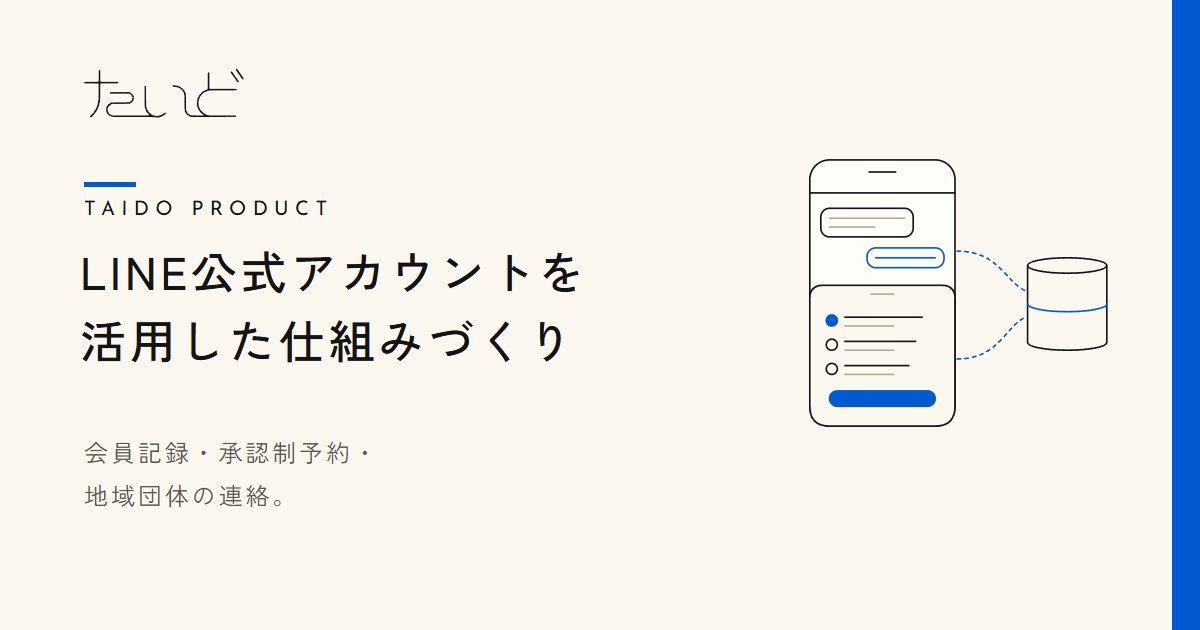
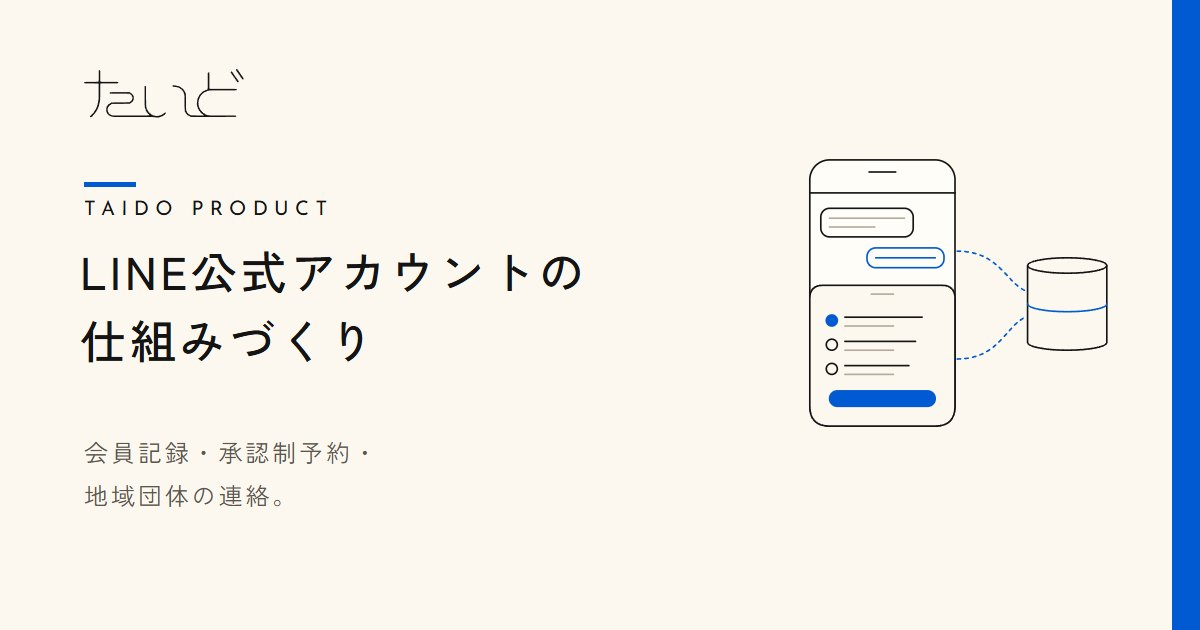
LP の総称を「LINE公式アカウントの仕組みづくり」に統一（たいど AI 会社の道具と同じ名前）。OG 画像も作り直した
Claude-Session: https://claude.ai/code/session_01JTS9wHoswqBZuuv7uGtGUu

Changed region(s): [[0.0617, 0.5127, 0.4933, 0.573], [0.4317, 0.3921, 0.4933, 0.4825]]

diff --git a/line/index.html b/line/index.html
@@ -1,12 +1,12 @@
 <!doctype html>
 <html lang="ja"><head><meta charset="utf-8"><meta name="viewport" content="width=device-width,initial-scale=1">
-<title>LINE公式アカウントを活用した仕組みづくり｜会員記録・承認制予約・地域団体の連絡｜たいど</title>
+<title>LINE公式アカウントの仕組みづくり｜会員記録・承認制予約・地域団体の連絡｜たいど</title>
 <meta name="description" content="LINE公式アカウントを使って、会員一人ひとりが自分の記録を見られる仕組み、お店が確かめてから確定する予約、担当が代わっても続けられる団体の連絡を作ります。あなたの名義で作り、送る数は月の上限で止める設計。山梨県韮崎市・全国オンライン。会員記録 330,000円〜／承認制予約 165,000円〜／地域団体の連絡 100,000円〜、保守（任意）月11,000円〜（税込）。">
 <meta name="theme-color" content="#fcf7ef">
-<meta property="og:title" content="LINE公式アカウントを活用した仕組みづくり｜たいど">
+<meta property="og:title" content="LINE公式アカウントの仕組みづくり｜たいど">
 <meta property="og:description" content="会員記録・承認制予約・地域団体の連絡を、LINE公式アカウントを使って。あなたの名義で作り、送る数は月の上限で止める設計。">
 <meta property="og:type" content="website"><meta property="og:url" content="https://nirareba0.github.io/line/"><meta property="og:site_name" content="たいど"><meta property="og:locale" content="ja_JP">
-<meta property="og:image" content="https://nirareba0.github.io/assets/og-line.jpg?v=2"><meta property="og:image:width" content="1200"><meta property="og:image:height" content="630"><meta property="og:image:alt" content="たいど LINE公式アカウントを活用した仕組みづくり。会員記録・承認制予約・地域団体の連絡">
+<meta property="og:image" content="https://nirareba0.github.io/assets/og-line.jpg?v=3"><meta property="og:image:width" content="1200"><meta property="og:image:height" content="630"><meta property="og:image:alt" content="たいど LINE公式アカウントの仕組みづくり。会員記録・承認制予約・地域団体の連絡">
 <meta name="twitter:card" content="summary_large_image">
 <link rel="canonical" href="https://nirareba0.github.io/line/">
 <link rel="icon" href="../assets/favicon-card.svg" type="image/svg+xml">
@@ -33,7 +33,7 @@
 <div class="band" aria-hidden="true"></div>
 <header class="site-header">
 <a class="brand" href="../"><img src="../assets/taido-logo-line.svg" alt="たいど（トップへ）" width="297" height="100"></a>
-<nav aria-label="LINE公式アカウントを活用した仕組みづくり">
+<nav aria-label="LINE公式アカウントの仕組みづくり">
 <a href="../line/" aria-current="page"><svg class="ic" aria-hidden="true"><use href="#i-line"/></svg><span>一覧</span></a>
 <a href="../line/kiroku/"><svg class="ic" aria-hidden="true"><use href="#i-db"/></svg><span>会員記録</span></a>
 <a href="../line/yoyaku/"><svg class="ic" aria-hidden="true"><use href="#i-cal"/></svg><span>承認制予約</span></a>
@@ -43,10 +43,10 @@
 </header>
 
 <main id="main">
-<nav class="crumbs" aria-label="現在地"><ol><li><a href="../">たいど</a></li><li aria-current="page">LINE公式アカウントを活用した仕組みづくり</li></ol></nav>
+<nav class="crumbs" aria-label="現在地"><ol><li><a href="../">たいど</a></li><li aria-current="page">LINE公式アカウントの仕組みづくり</li></ol></nav>
 <section class="hero lp-hero" id="top" aria-labelledby="hero-title">
 <div class="hero-copy">
-<p class="kicker">たいどのプロダクト ／ LINE公式アカウントを活用した仕組みづくり</p>
+<p class="kicker">たいどのプロダクト ／ LINE公式アカウントの仕組みづくり</p>
 <h1 id="hero-title">会員の記録、予約、<br>団体の連絡を、<br>LINEから。</h1>
 <p class="hero-lead">一人ひとりが自分の記録を見られる仕組みや、お店が確かめてから確定する予約、担当が代わっても続けられる団体の連絡を作ります。まずは、いまの困りごとからお選びください。</p>
 <dl class='hero-price hero-price3'><div><dt>会員記録</dt><dd><span class='n'>330,000</span>円〜</dd></div><div><dt>承認制予約</dt><dd><span class='n'>165,000</span>円〜</dd></div><div><dt>地域団体の連絡</dt><dd><span class='n'>100,000</span>円〜</dd></div><div><dt>保守（任意）</dt><dd>月<span class='n'>11,000</span>円〜</dd></div></dl>
@@ -128,7 +128,7 @@
 <footer class="site-footer">
 <img src="../assets/taido-logo-line.svg" alt="たいど" width="297" height="100">
 <p>たいどを整える ／ 組織づくり・広告企画<br>西村直樹（山梨県韮崎市・全国オンライン）</p>
-<p class="copy"><a href="../line/">LINE公式アカウントを活用した仕組みづくり</a>　<a href="../">たいど トップ</a>　<a href="../privacy.html">個人情報の扱い</a>　© 2026 西村直樹</p>
+<p class="copy"><a href="../line/">LINE公式アカウントの仕組みづくり</a>　<a href="../">たいど トップ</a>　<a href="../privacy.html">個人情報の扱い</a>　© 2026 西村直樹</p>
 <p class="tm">本サービスは、たいどが提供する独立したサービスです。LINEヤフー株式会社が提供・認定するサービスではありません。LINEはLINEヤフー株式会社の登録商標です。</p>
 </footer>
 </body></html>

diff --git a/line/chiiki/index.html b/line/chiiki/index.html
@@ -6,7 +6,7 @@
 <meta property="og:title" content="地域団体の連絡の仕組みづくり｜たいど">
 <meta property="og:description" content="団体の連絡を、担当が代わっても続けられる形に。LINE公式アカウントを活用。100,000円〜（税込）。">
 <meta property="og:type" content="website"><meta property="og:url" content="https://nirareba0.github.io/line/chiiki/"><meta property="og:site_name" content="たいど"><meta property="og:locale" content="ja_JP">
-<meta property="og:image" content="https://nirareba0.github.io/assets/og-line.jpg?v=2"><meta property="og:image:width" content="1200"><meta property="og:image:height" content="630"><meta property="og:image:alt" content="たいど LINE公式アカウントを活用した仕組みづくり。会員記録・承認制予約・地域団体の連絡">
+<meta property="og:image" content="https://nirareba0.github.io/assets/og-line.jpg?v=3"><meta property="og:image:width" content="1200"><meta property="og:image:height" content="630"><meta property="og:image:alt" content="たいど LINE公式アカウントの仕組みづくり。会員記録・承認制予約・地域団体の連絡">
 <meta name="twitter:card" content="summary_large_image">
 <link rel="canonical" href="https://nirareba0.github.io/line/chiiki/">
 <link rel="icon" href="../../assets/favicon-card.svg" type="image/svg+xml">
@@ -33,7 +33,7 @@
 <div class="band" aria-hidden="true"></div>
 <header class="site-header">
 <a class="brand" href="../../"><img src="../../assets/taido-logo-line.svg" alt="たいど（トップへ）" width="297" height="100"></a>
-<nav aria-label="LINE公式アカウントを活用した仕組みづくり">
+<nav aria-label="LINE公式アカウントの仕組みづくり">
 <a href="../../line/"><svg class="ic" aria-hidden="true"><use href="#i-line"/></svg><span>一覧</span></a>
 <a href="../../line/kiroku/"><svg class="ic" aria-hidden="true"><use href="#i-db"/></svg><span>会員記録</span></a>
 <a href="../../line/yoyaku/"><svg class="ic" aria-hidden="true"><use href="#i-cal"/></svg><span>承認制予約</span></a>
@@ -43,7 +43,7 @@
 </header>
 
 <main id="main">
-<nav class="crumbs" aria-label="現在地"><ol><li><a href="../../">たいど</a></li><li><a href="../../line/">LINE公式アカウントを活用した仕組みづくり</a></li><li aria-current="page">地域団体の連絡の仕組みづくり</li></ol></nav>
+<nav class="crumbs" aria-label="現在地"><ol><li><a href="../../">たいど</a></li><li><a href="../../line/">LINE公式アカウントの仕組みづくり</a></li><li aria-current="page">地域団体の連絡の仕組みづくり</li></ol></nav>
 <section class="hero lp-hero" id="top" aria-labelledby="hero-title">
 <div class="hero-copy">
 <p class="kicker">LINE公式アカウントを活用 ／ 地域団体の連絡の仕組みづくり</p>
@@ -147,7 +147,7 @@
 <footer class="site-footer">
 <img src="../../assets/taido-logo-line.svg" alt="たいど" width="297" height="100">
 <p>たいどを整える ／ 組織づくり・広告企画<br>西村直樹（山梨県韮崎市・全国オンライン）</p>
-<p class="copy"><a href="../../line/">LINE公式アカウントを活用した仕組みづくり</a>　<a href="../../">たいど トップ</a>　<a href="../../privacy.html">個人情報の扱い</a>　© 2026 西村直樹</p>
+<p class="copy"><a href="../../line/">LINE公式アカウントの仕組みづくり</a>　<a href="../../">たいど トップ</a>　<a href="../../privacy.html">個人情報の扱い</a>　© 2026 西村直樹</p>
 <p class="tm">本サービスは、たいどが提供する独立したサービスです。LINEヤフー株式会社が提供・認定するサービスではありません。LINEはLINEヤフー株式会社の登録商標です。</p>
 </footer>
 </body></html>

diff --git a/line/yoyaku/index.html b/line/yoyaku/index.html
@@ -6,7 +6,7 @@
 <meta property="og:title" content="承認制予約の仕組みづくり｜たいど">
 <meta property="og:description" content="仮予約を受けて、お店が確かめてから確定する。LINE公式アカウントを活用。165,000円〜（税込）。">
 <meta property="og:type" content="website"><meta property="og:url" content="https://nirareba0.github.io/line/yoyaku/"><meta property="og:site_name" content="たいど"><meta property="og:locale" content="ja_JP">
-<meta property="og:image" content="https://nirareba0.github.io/assets/og-line.jpg?v=2"><meta property="og:image:width" content="1200"><meta property="og:image:height" content="630"><meta property="og:image:alt" content="たいど LINE公式アカウントを活用した仕組みづくり。会員記録・承認制予約・地域団体の連絡">
+<meta property="og:image" content="https://nirareba0.github.io/assets/og-line.jpg?v=3"><meta property="og:image:width" content="1200"><meta property="og:image:height" content="630"><meta property="og:image:alt" content="たいど LINE公式アカウントの仕組みづくり。会員記録・承認制予約・地域団体の連絡">
 <meta name="twitter:card" content="summary_large_image">
 <link rel="canonical" href="https://nirareba0.github.io/line/yoyaku/">
 <link rel="icon" href="../../assets/favicon-card.svg" type="image/svg+xml">
@@ -33,7 +33,7 @@
 <div class="band" aria-hidden="true"></div>
 <header class="site-header">
 <a class="brand" href="../../"><img src="../../assets/taido-logo-line.svg" alt="たいど（トップへ）" width="297" height="100"></a>
-<nav aria-label="LINE公式アカウントを活用した仕組みづくり">
+<nav aria-label="LINE公式アカウントの仕組みづくり">
 <a href="../../line/"><svg class="ic" aria-hidden="true"><use href="#i-line"/></svg><span>一覧</span></a>
 <a href="../../line/kiroku/"><svg class="ic" aria-hidden="true"><use href="#i-db"/></svg><span>会員記録</span></a>
 <a href="../../line/yoyaku/" aria-current="page"><svg class="ic" aria-hidden="true"><use href="#i-cal"/></svg><span>承認制予約</span></a>
@@ -43,7 +43,7 @@
 </header>
 
 <main id="main">
-<nav class="crumbs" aria-label="現在地"><ol><li><a href="../../">たいど</a></li><li><a href="../../line/">LINE公式アカウントを活用した仕組みづくり</a></li><li aria-current="page">承認制予約の仕組みづくり</li></ol></nav>
+<nav class="crumbs" aria-label="現在地"><ol><li><a href="../../">たいど</a></li><li><a href="../../line/">LINE公式アカウントの仕組みづくり</a></li><li aria-current="page">承認制予約の仕組みづくり</li></ol></nav>
 <section class="hero lp-hero" id="top" aria-labelledby="hero-title">
 <div class="hero-copy">
 <p class="kicker">LINE公式アカウントを活用 ／ 承認制予約の仕組みづくり</p>
@@ -131,7 +131,7 @@
 <footer class="site-footer">
 <img src="../../assets/taido-logo-line.svg" alt="たいど" width="297" height="100">
 <p>たいどを整える ／ 組織づくり・広告企画<br>西村直樹（山梨県韮崎市・全国オンライン）</p>
-<p class="copy"><a href="../../line/">LINE公式アカウントを活用した仕組みづくり</a>　<a href="../../">たいど トップ</a>　<a href="../../privacy.html">個人情報の扱い</a>　© 2026 西村直樹</p>
+<p class="copy"><a href="../../line/">LINE公式アカウントの仕組みづくり</a>　<a href="../../">たいど トップ</a>　<a href="../../privacy.html">個人情報の扱い</a>　© 2026 西村直樹</p>
 <p class="tm">本サービスは、たいどが提供する独立したサービスです。LINEヤフー株式会社が提供・認定するサービスではありません。LINEはLINEヤフー株式会社の登録商標です。</p>
 </footer>
 </body></html>

diff --git a/line/kiroku/index.html b/line/kiroku/index.html
@@ -6,7 +6,7 @@
 <meta property="og:title" content="会員記録の仕組みづくり｜たいど">
 <meta property="og:description" content="「あと何回？」を、会員さんが自分で見られるように。LINE公式アカウントを活用。330,000円〜（税込）。">
 <meta property="og:type" content="website"><meta property="og:url" content="https://nirareba0.github.io/line/kiroku/"><meta property="og:site_name" content="たいど"><meta property="og:locale" content="ja_JP">
-<meta property="og:image" content="https://nirareba0.github.io/assets/og-line.jpg?v=2"><meta property="og:image:width" content="1200"><meta property="og:image:height" content="630"><meta property="og:image:alt" content="たいど LINE公式アカウントを活用した仕組みづくり。会員記録・承認制予約・地域団体の連絡">
+<meta property="og:image" content="https://nirareba0.github.io/assets/og-line.jpg?v=3"><meta property="og:image:width" content="1200"><meta property="og:image:height" content="630"><meta property="og:image:alt" content="たいど LINE公式アカウントの仕組みづくり。会員記録・承認制予約・地域団体の連絡">
 <meta name="twitter:card" content="summary_large_image">
 <link rel="canonical" href="https://nirareba0.github.io/line/kiroku/">
 <link rel="icon" href="../../assets/favicon-card.svg" type="image/svg+xml">
@@ -33,7 +33,7 @@
 <div class="band" aria-hidden="true"></div>
 <header class="site-header">
 <a class="brand" href="../../"><img src="../../assets/taido-logo-line.svg" alt="たいど（トップへ）" width="297" height="100"></a>
-<nav aria-label="LINE公式アカウントを活用した仕組みづくり">
+<nav aria-label="LINE公式アカウントの仕組みづくり">
 <a href="../../line/"><svg class="ic" aria-hidden="true"><use href="#i-line"/></svg><span>一覧</span></a>
 <a href="../../line/kiroku/" aria-current="page"><svg class="ic" aria-hidden="true"><use href="#i-db"/></svg><span>会員記録</span></a>
 <a href="../../line/yoyaku/"><svg class="ic" aria-hidden="true"><use href="#i-cal"/></svg><span>承認制予約</span></a>
@@ -43,7 +43,7 @@
 </header>
 
 <main id="main">
-<nav class="crumbs" aria-label="現在地"><ol><li><a href="../../">たいど</a></li><li><a href="../../line/">LINE公式アカウントを活用した仕組みづくり</a></li><li aria-current="page">会員記録の仕組みづくり</li></ol></nav>
+<nav class="crumbs" aria-label="現在地"><ol><li><a href="../../">たいど</a></li><li><a href="../../line/">LINE公式アカウントの仕組みづくり</a></li><li aria-current="page">会員記録の仕組みづくり</li></ol></nav>
 <section class="hero lp-hero" id="top" aria-labelledby="hero-title">
 <div class="hero-copy">
 <p class="kicker">LINE公式アカウントを活用 ／ 会員記録の仕組みづくり</p>
@@ -142,7 +142,7 @@
 <footer class="site-footer">
 <img src="../../assets/taido-logo-line.svg" alt="たいど" width="297" height="100">
 <p>たいどを整える ／ 組織づくり・広告企画<br>西村直樹（山梨県韮崎市・全国オンライン）</p>
-<p class="copy"><a href="../../line/">LINE公式アカウントを活用した仕組みづくり</a>　<a href="../../">たいど トップ</a>　<a href="../../privacy.html">個人情報の扱い</a>　© 2026 西村直樹</p>
+<p class="copy"><a href="../../line/">LINE公式アカウントの仕組みづくり</a>　<a href="../../">たいど トップ</a>　<a href="../../privacy.html">個人情報の扱い</a>　© 2026 西村直樹</p>
 <p class="tm">本サービスは、たいどが提供する独立したサービスです。LINEヤフー株式会社が提供・認定するサービスではありません。LINEはLINEヤフー株式会社の登録商標です。</p>
 </footer>
 </body></html>

diff --git a/index.html b/index.html
@@ -183,7 +183,7 @@
 <p class="note">料金は内容に合わせてお見積もりします。はじめの30分の相談は無料です。</p>
 <div class="svc-product">
 <p class="svc-group-h"><span class="en">PRODUCT</span>プロダクト</p>
-<a class="product-card" href="line/"><svg class="ic ic-l" aria-hidden="true"><use href="#i-line"/></svg><div><h3>LINE公式アカウントを活用した仕組みづくり</h3><p>配信ツールの設定ではなく、一人ひとりの記録をためる場所と、LINE の中で開くページまで作ります。会員記録・承認制予約・地域団体の連絡の3つ。値段はページに載せています。</p><p class="product-go">くわしく見る</p></div></a>
+<a class="product-card" href="line/"><svg class="ic ic-l" aria-hidden="true"><use href="#i-line"/></svg><div><h3>LINE公式アカウントの仕組みづくり</h3><p>配信ツールの設定ではなく、一人ひとりの記録をためる場所と、LINE の中で開くページまで作ります。会員記録・承認制予約・地域団体の連絡の3つ。値段はページに載せています。</p><p class="product-go">くわしく見る</p></div></a>
 </div>
 </section>
 
@@ -286,6 +286,6 @@
 <footer class="site-footer">
 <img src="assets/taido-logo-line.svg" alt="たいど" width="297" height="100">
 <p>たいどを整える ／ 組織づくり・広告企画<br>西村直樹（山梨県韮崎市・全国オンライン）</p>
-<p class="copy"><a href="line/">LINE公式アカウントを活用した仕組みづくり</a>　<a href="privacy.html">個人情報の扱い</a>　© 2026 西村直樹</p>
+<p class="copy"><a href="line/">LINE公式アカウントの仕組みづくり</a>　<a href="privacy.html">個人情報の扱い</a>　© 2026 西村直樹</p>
 </footer>
 </body></html>

diff --git a/line/line.css b/line/line.css
@@ -1,4 +1,4 @@
-/* LINE公式アカウントを活用した仕組みづくり（line/ と3枚の LP）。土台は ../style.css。ページは scratchpad の build.py で書き出した */
+/* LINE公式アカウントの仕組みづくり（line/ と3枚の LP）。土台は ../style.css。ページは scratchpad の build.py で書き出した */
 .vh{position:absolute!important;width:1px;height:1px;padding:0;margin:-1px;overflow:hidden;clip:rect(0 0 0 0);white-space:nowrap;border:0}
 
 /* 現在地 */
